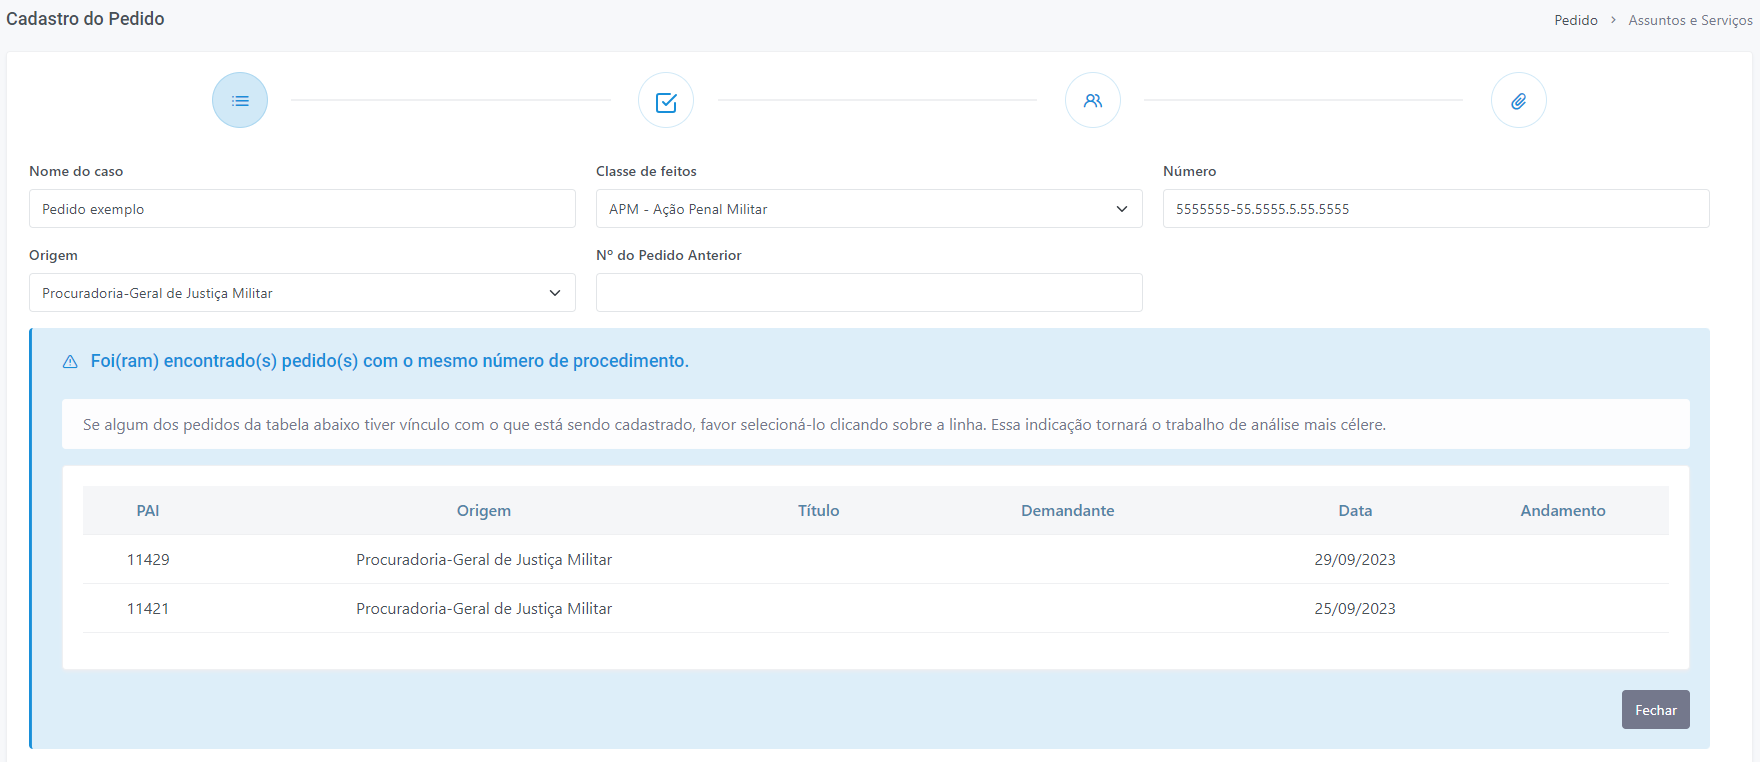
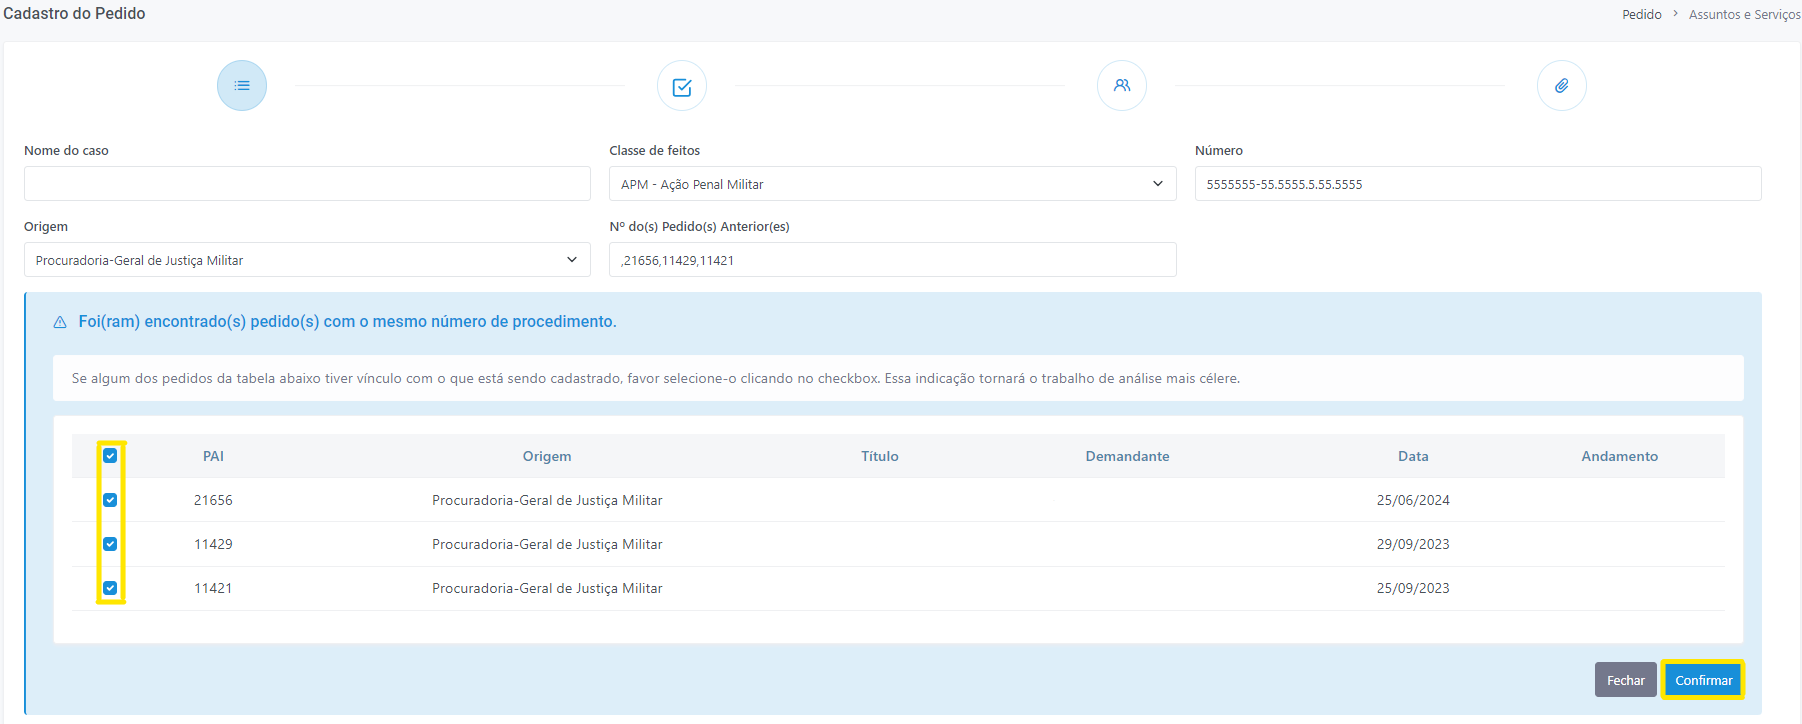
Atualizando

diff --git a/docs/pagina2.md b/docs/pagina2.md
@@ -6,7 +6,11 @@
 ![Login](img/FormularioNovoPedido.png)
 *Figura 5 - Cadastro do Pedido*. <br><br>
 
-<p style="text-align: justify;">Preencha o campo nome, selecione qual a classe de feitos deste caso e digite o número do procedimento. Caso existam pedidos com o mesmo número de procedimento, o PAI apresentará uma tabela listando estes pedidos (Figura 6) e seus respectivos detalhes. <br><br> A partir disto, caso algum dentre eles possua vínculo com o pedido que está sendo cadastrado, selecione-o, clicando sobre a linha. Essa indicação tornará o trabalho de análise mais célere. <br><br> Por fim, o campo "Origem" do pedido é automaticamente selecionado pelo PAI, de acordo com a lotação do membro que está cadastrando o novo pedido. Porém, caso seja de interesse, é possível alterar este campo de acordo com a lotação desejada. </p>
+<p style="text-align: justify;">Preencha o campo nome, selecione qual a classe de feitos deste caso e digite o número do procedimento. Caso existam pedidos com o mesmo número de procedimento, o PAI apresentará uma tabela listando estes pedidos (Figura 6) e seus respectivos detalhes. <br><br> 
+
+A partir disto, caso existam pedidos que possuam vínculo com o pedido que está sendo cadastrado, selecione-os, clicando nos <svg xmlns="http://www.w3.org/2000/svg" viewBox="0 0 24 24" width="20" height="20" style="vertical-align: middle;"><rect width="18" height="18" x="3" y="3" rx="5" ry="5" fill="none" stroke="currentColor" stroke-width="2"/></svg>. Essa indicação tornará o trabalho de análise mais célere. <br><br> 
+
+Por fim, o campo "Origem" do pedido é automaticamente selecionado pelo PAI, de acordo com a lotação do membro que está cadastrando o novo pedido. Porém, caso seja de interesse, é possível alterar este campo de acordo com a lotação desejada. </p>
 
 ![Login](img/PedidoVínculo.png)
 *Figura 6 - Pedido com mesmo número de procedimento*. <br><br>
@@ -34,10 +38,20 @@
 Na formulação de um novo pedido, além do campo necessidades, há uma lista de assuntos e outra de serviços. Essa segregação é importante, pois os pedidos recebidos na SPAI passam por uma triagem eletrônica, feita pelo próprio sistema, que coloca cada pedido em filas diferentes de acordo com critérios bem definidos (serviço escolhido, assunto, grau de complexidade, etc). <br><br> Dessa forma, é de suma importância que o serviço, o assunto e as necessidades estejam em sintonia, para que o atendimento dos pedidos seja otimizado. Some-se a isso, o fato de que a combinação correta desses três itens permite delimitar e orientar a análise, auxiliando na definição do escopo do trabalho dos analistas.  </p>
 
 ## Investigados
-<p style="text-align: justify;"><span style="background-color: #c9ebff; border-radius: 5px; padding: 7px; color: #000000; font-weight: bold; ">4</span> Na página seguinte, será disponibilizado um formulário para preenchimento das informações conhecidas pelo demandante acerca dos investigados do pedido, conforme figura a seguir (Figura 10):  </p>
+<p style="text-align: justify;"><span style="background-color: #c9ebff; border-radius: 5px; padding: 7px; color: #000000; font-weight: bold; ">4</span> Na página seguinte, será disponibilizado um formulário para preenchimento das informações conhecidas pelo demandante acerca do(s) investigado(s) do pedido. Caso o pedido solicite <strong>serviços de Divisão de Análise</strong>, o formulário solicitará o preenchimento dos campos CPF/CNPJ, Nome, Período Inicial e Período Final, conforme ilustrado a seguir:</p>
 
 ![Login](img/CadastroDeInvestigado.png)
 *Figura 10 - Cadastro de investigado(s)*. <br><br>
+
+<p style="text-align: justify;">Caso o pedido solicite <strong>serviços de Divisão de Pesquisa</strong> e/ou <strong>serviços de Divisão de Combate à Corrupção</strong>, o formulário solicitará apenas o preenchimento dos campos CPF/CNPJ e Nome, conforme ilustrado a seguir:</p>
+
+![Login](img/CadastroDeInvestigado(1).png)
+*Figura 10 - Cadastro de investigado(s)*. <br><br>
+
+
+
+<div style="display: flex; align-items: center; justify-content: justify; text-align: justify; width: 100%;"><svg height="35px" width="25px" style="vertical-align: middle" version="1.1" id="Layer_1" xmlns="http://www.w3.org/2000/svg" xmlns:xlink="http://www.w3.org/1999/xlink" viewBox="0 0 511.999 511.999" xml:space="preserve" fill="#000000" stroke="#000000"><g id="SVGRepo_bgCarrier" stroke-width="0"></g><g id="SVGRepo_tracerCarrier" stroke-linecap="round" stroke-linejoin="round"></g><g id="SVGRepo_iconCarrier"> <path style="fill:#F5C525;" d="M16.242,429.476L232.332,55.195c10.518-18.219,36.814-18.219,47.333,0l216.091,374.281 c10.518,18.219-2.63,40.991-23.666,40.991H39.908C18.872,470.467,5.723,447.695,16.242,429.476z"></path> <g><path style="fill:#EFEFEF;" d="M255.999,322.45L255.999,322.45c-14.172,0-25.66-11.488-25.66-25.66V172.87 c0-14.172,11.488-25.66,25.66-25.66l0,0c14.172,0,25.66,11.488,25.66,25.66v123.92C281.659,310.962,270.171,322.45,255.999,322.45z "></path><circle style="fill:#EFEFEF;" cx="256.001" cy="397.558" r="25.034"></circle></g><g><path style="fill:#231F20;" d="M506.597,423.218L290.506,48.937C283.304,36.462,270.404,29.014,256,29.014 c-14.404,0-27.304,7.448-34.506,19.922L5.402,423.218c-7.202,12.475-7.202,27.37,0,39.845 c7.202,12.475,20.103,19.922,34.507,19.922h432.183c14.405,0,27.305-7.448,34.507-19.922 C513.799,450.588,513.799,435.692,506.597,423.218z M484.917,450.545c-1.286,2.227-5.108,7.405-12.826,7.405H39.908 c-7.718,0-11.541-5.178-12.826-7.405c-1.286-2.227-3.859-8.126,0-14.81L243.172,61.454c3.859-6.683,10.255-7.405,12.826-7.405 s8.967,0.722,12.826,7.405l216.091,374.281C488.775,442.419,486.201,448.318,484.917,450.545z"></path><path style="fill:#231F20;" d="M255.999,134.692c-21.051,0-38.177,17.126-38.177,38.177v123.92 c0,21.051,17.126,38.178,38.177,38.178s38.177-17.126,38.177-38.177V172.87C294.176,151.818,277.05,134.692,255.999,134.692z M269.142,296.79c0,7.247-5.896,13.143-13.143,13.143s-13.143-5.896-13.143-13.143V172.87c0-7.247,5.896-13.143,13.143-13.143 s13.143,5.896,13.143,13.143V296.79z"></path><path style="fill:#231F20;" d="M255.999,360.002c-20.706,0-37.552,16.846-37.552,37.552c0,20.706,16.846,37.552,37.552,37.552 s37.552-16.846,37.552-37.552C293.55,376.848,276.705,360.002,255.999,360.002z M255.999,410.071 c-6.902,0-12.517-5.615-12.517-12.517c0-6.902,5.615-12.517,12.517-12.517s12.517,5.615,12.517,12.517 C268.516,404.455,262.901,410.071,255.999,410.071z"></path></g></g></svg><p style="margin-left: 10px;">Para cadastrar vários investigados de uma vez só, basta clicar no botão <strong>"Cadastro múltiplo"</strong>, separando os números de CPF/CNPJ por vírgula.</p></div>
+
 
 <p style="text-align: justify;">O processo poderá ser repetido enquanto houver investigados a serem cadastrados. Todos os investigados serão incluídos em série na tabela. <br><br> É possível, também, através da tabela, editar e excluir dados já cadastrados. O cadastramento de investigados também é aproveitado para outros serviços selecionados dentro da plataforma. </p><br>
 
@@ -69,13 +83,13 @@ Por fim, sugerimos que a minuta seja utilizada como anexo do PQS!
 
 ## <span style="background-color: #4682B4; border-radius: 5px; padding: 6px; color: #FFFFFF "> Afastamento de sigilo telefônico - SITTEL </span>
 
-<p style="text-align: justify;">O SITTEL é um sistema de investigação de registros telefônico e telemático, tendo sido desenvolvido para recebimento e processamento de dados decorrentes de afastamento de sigilo de registros de telefone autorizado pela Justiça. <br><br> Pelo sistema, é possível transmitir as ordens judiciais e ofícios requisitórios (ordem extrajudicial) diretamente para as operadoras de telefonia, por meio tecnológico seguro. O SITTEL não realiza interceptação telefônica e nem afastamento do sigilo telemático. 
+<p style="text-align: justify;">O SITTEL é um sistema de investigação de registros telefônico e telemático, tendo sido desenvolvido para recebimento e processamento de dados decorrentes de afastamento de sigilo de registros de telefone autorizado pela Justiça. <br><br> Pelo sistema, é possível transmitir as ordens judiciais e ofícios requisitórios (ofício extrajudicial) diretamente para as operadoras de telefonia, por meio tecnológico seguro. O SITTEL não realiza interceptação telefônica e nem afastamento do sigilo telemático. 
 
  Assim, <strong>caso o usuário tenha cadastrado um pedido selecionando o serviço “Afastamento de sigilo telefônico - SITTEL” </strong>, será redirecionado para a tela de formulário de “cadastro do SITTEL”. Nela, é necessário informar qual o tipo de solicitação desejada, "Judicial" ou "Requisição direta (Extrajudicial)" (Figura 13).</p>
 
  <ul>
-    <li style="text-align: justify;"><strong>Pedido judicial:</strong> Pedido que depende da decisão judicial ser proferida pelo juíz. As respostas poderão conter as seguintes informações, dependendo do tipo de alvo solicitado: dados cadastrais, históricos de chamadas, histórico de chamadas (com dados de interlocutores), histórico de IMEI e histórico de conexões. Os tipos de alvos solicitados poderão ser: CPF/CNPJ, outro documento do assinante, terminal, IMEI. </li>
-    <li style="text-align: justify;"><strong> Pedido extrajudicial: </strong> Pedido em que o próprio demandante solicita e assina a requisição. Terá como resposta os dados cadastrais e os alvos solicitados poderão ser do tipo: CPF/CNPJ, outro documento do assinante, terminal, IMEI. </li><br>
+    <li style="text-align: justify;"><strong>Pedido judicial:</strong> pedido que depende da decisão judicial ser proferida pelo juíz. As respostas poderão conter as seguintes informações, dependendo do tipo de alvo solicitado: dados cadastrais, históricos de chamadas, histórico de chamadas (com dados de interlocutores), histórico de IMEI e histórico de conexões. Os tipos de alvos solicitados poderão ser: pessoa física; pessoa jurídica; terminal; outros documentos (passaporte, RG, RNE); IMEI (Identificação Internacional de Equipamento Móvel); ERB (Estação Rádio Base); Localização (a partir da Latitude e Longitude); Endereço e IP/Porta.   </li>
+    <li style="text-align: justify;"><strong> Pedido extrajudicial: </strong> pedido em que o próprio demandante solicita e assina a requisição. Terá como resposta os dados cadastrais e IMEI. Os alvos solicitados poderão ser do tipo: pessoa física; pessoa jurídica; terminal; outros documentos (passaporte, RG, RNE); IMEI (Identificação Internacional de Equipamento Móvel); ERB (Estação Rádio Base); Localização (a partir da Latitude e Longitude); Endereço e IP/Porta.  </li><br>
  </ul>
 
 ![Login](img/FormCadastroDoSittel.png)

diff --git a/docs/pagina3.md b/docs/pagina3.md
@@ -3,7 +3,7 @@
 <p style="text-align: justify;">Permite que o membro visualize todos os pedidos feitos até a data corrente. Inicialmente são mostrados apenas os pedidos em andamento, mas, caso o membro queira enxergar todos os pedidos já cadastrados, basta acionar o botão “Mostrar Pedidos Concluídos”, localizado no centro da página (Figura 17). </p>
 
 ## <span style="background-color: #4682B4; border-radius: 5px; padding: 6px; color: #FFFFFF">Detalhes do pedido </span>
-Para navegar pelos detalhes do pedido, clique no botão <svg xmlns="http://www.w3.org/2000/svg" width="24" height="24" viewBox="0 0 24 24"><path fill="currentColor" d="m21.68 17.65l-7-14a3 3 0 0 0-5.36 0l-7 14a3 3 0 0 0 3.9 4.08l5.37-2.4a1.06 1.06 0 0 1 .82 0l5.37 2.4a3 3 0 0 0 3.9-4.08Zm-2 2a1 1 0 0 1-1.13.22l-5.37-2.39a3 3 0 0 0-2.44 0L5.41 19.9a1 1 0 0 1-1.3-1.35l7-14a1 1 0 0 1 1.78 0l7 14a1 1 0 0 1-.17 1.13Z"/></svg> apresentado na tela, conforme mostrado na figura a seguir: (Figura 17)
+Para navegar pelos detalhes do pedido, clique no botão <svg xmlns="http://www.w3.org/2000/svg" width="24" height="24" viewBox="0 0 24 24"><path fill="currentColor" d="m21.68 17.65l-7-14a3 3 0 0 0-5.36 0l-7 14a3 3 0 0 0 3.9 4.08l5.37-2.4a1.06 1.06 0 0 1 .82 0l5.37 2.4a3 3 0 0 0 3.9-4.08Zm-2 2a1 1 0 0 1-1.13.22l-5.37-2.39a3 3 0 0 0-2.44 0L5.41 19.9a1 1 0 0 1-1.3-1.35l7-14a1 1 0 0 1 1.78 0l7 14a1 1 0 0 1-.17 1.13Z"/></svg>DETALHES apresentado na tela, conforme mostrado na figura a seguir: (Figura 17)
 
 ![Login](img/DetalhesDoPedido.jpeg)
 *Figura 17 - Acessar os detalhes dos pedidos*. <br><br>
@@ -59,8 +59,7 @@ Autorizações: </strong>utilizado para que o membro titular do pedido possa aut
 
 <p style="text-align: justify;">Aba de acompanhamento do afastamento de sigilo bancário do caso, onde é possível realizar diversos andamentos e consultas, tais como: </p> 
 <ul>
-<li style="text-align: justify;">Completar a ordem de afastamento com anexação da decisão judicial. </li>
-<li style="text-align: justify;">Anexação da decisão judicial relativa à extensão de quebra.</li>
+<li style="text-align: justify;">Complementar o serviço de afastamento bancário com anexação da decisão judicial. </li>
 <li style="text-align: justify;">Baixar a minuta de afastamento de sigilo bancário. </li>
 <li>Obter as informações de contatos das instituições financeiras e de seus funcionários responsáveis pelas transmissões de dados. </li>
 <li>Emitir ofício automático de cobrança aos bancos em caso de mora. </li>

diff --git a/docs/index.md b/docs/index.md
@@ -24,4 +24,4 @@ Além disso, a ferramenta se mostra indispensável na gestão de casos e na prod
     <li> Pesquisa de dados orçamentários e financeiros </li>
 </ul><br>
 
-<p style="text-align: justify;"> O <strong>PAI</strong> encontra-se atualmente em sua versão 1.0.1.4, a qual disponibiliza sete módulos para acesso: Administrador, Coordenador, Demandante, Analista, Quarentenista, Pesquisador e Servidor. Cada módulo foi desenvolvido sob medida para cada grupo de usuários. De acordo com o perfil acessado, as funcionalidades apresentadas poderão ser distintas. <strong>Este manual discorrerá sobre o Módulo Demandante do sistema PAI</strong>.</p><br><br>
+<p style="text-align: justify;"> O <strong>PAI</strong> encontra-se atualmente em sua versão 3.5.2, a qual disponibiliza sete módulos para acesso: Administrador, Coordenador, Demandante, Analista, Quarentenista, Pesquisador e Servidor. Cada módulo foi desenvolvido sob medida para cada grupo de usuários. De acordo com o perfil acessado, as funcionalidades apresentadas poderão ser distintas. <strong>Este manual discorrerá sobre o Módulo Demandante do sistema PAI</strong>.</p><br><br>

diff --git a/docs/pagina1.md b/docs/pagina1.md
@@ -2,7 +2,7 @@
 
 <p style="text-align: justify;">A partir de um computador <strong>conectado à rede interna do Ministério Público Militar</strong>, digite em seu navegador (browser) o seguinte endereço: <a href="https://pai.mpm.mp.br/">https://pai.mpm.mp.br/</a></p><br>
 
-<p style="text-align: justify;"><span style="background-color: #c9ebff; border-radius: 5px; padding: 7px; color: #000000; font-weight: bold; ">1</span> Preencha o campo “Usuário” com seu login (Exemplo: roberto.silva) e clique no link “Esqueceu sua senha?” (Figura 1). Em seguida, preencha o campo “E-mail” na página “Redefinir senha” (Figura 2) e clique em “Enviar pedido”. </p>
+<p style="text-align: justify;"><span style="background-color: #c9ebff; border-radius: 5px; padding: 7px; color: #000000; font-weight: bold; ">1</span> Clique no link “Esqueceu sua senha?” (Figura 1). Em seguida, preencha o campo “E-mail” na página “Redefinir senha” (Figura 2) e clique em “Enviar pedido”. </p>
 
 ![Login](img/Login.png)<br>
 *Figura 1 - Página de login com destaque ao link para obter senha de primeiro acesso.* <br><br>

diff --git a/docs/pagina6.md b/docs/pagina6.md
@@ -1,6 +1,6 @@
 # Avaliar pedido
 
-<p style="text-align: justify;">Permite ao membro avaliar os pedidos que já foram concluídos. Caso a avaliação seja igual ou inferior a 3 estrelas, o sistema solicitará que o membro discorra acerca das motivações que resultaram a baixa avaliação (Figura 37).</p>
+<p style="text-align: justify;">Permite ao membro avaliar os pedidos que já foram concluídos. Caso a avaliação seja igual ou inferior a 3 estrelas, o sistema solicitará que o membro obrigatoriamente discorra acerca das motivações que resultaram a baixa avaliação (Figura 37).</p>
 
 ![Login](img/Avaliacao.png)
 *Figura 37 - Avaliação dos pedidos*. <br><br>
